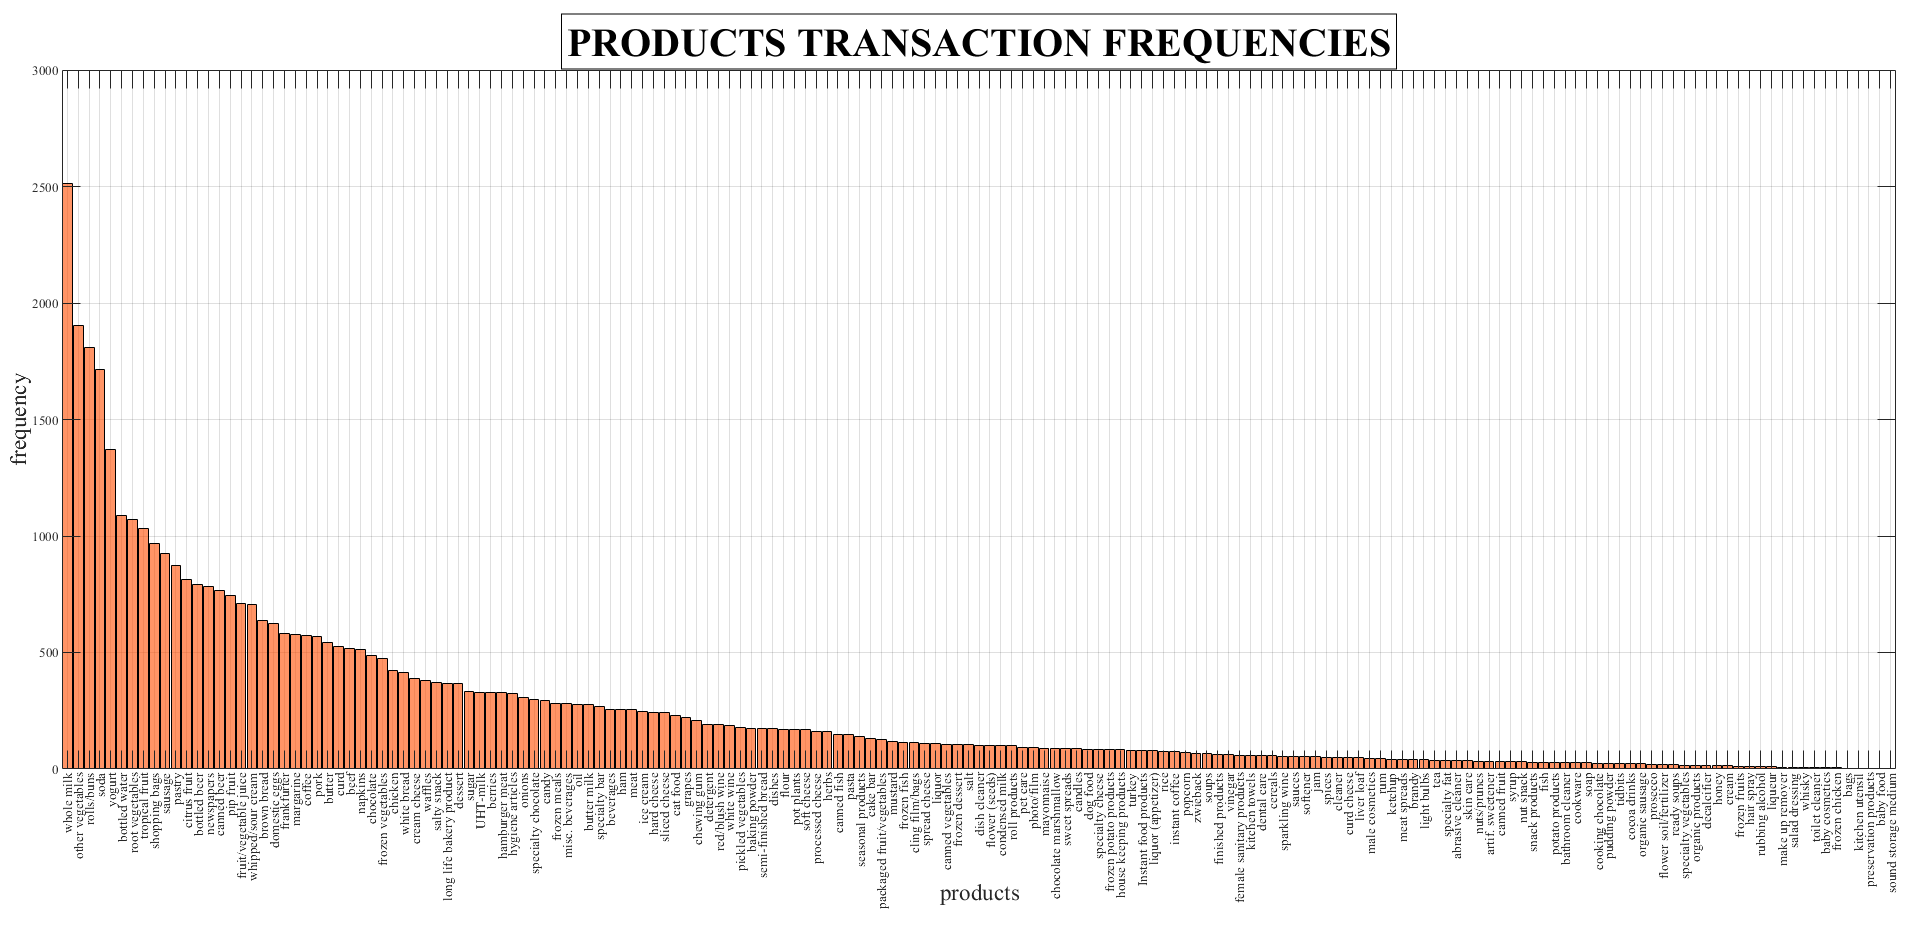
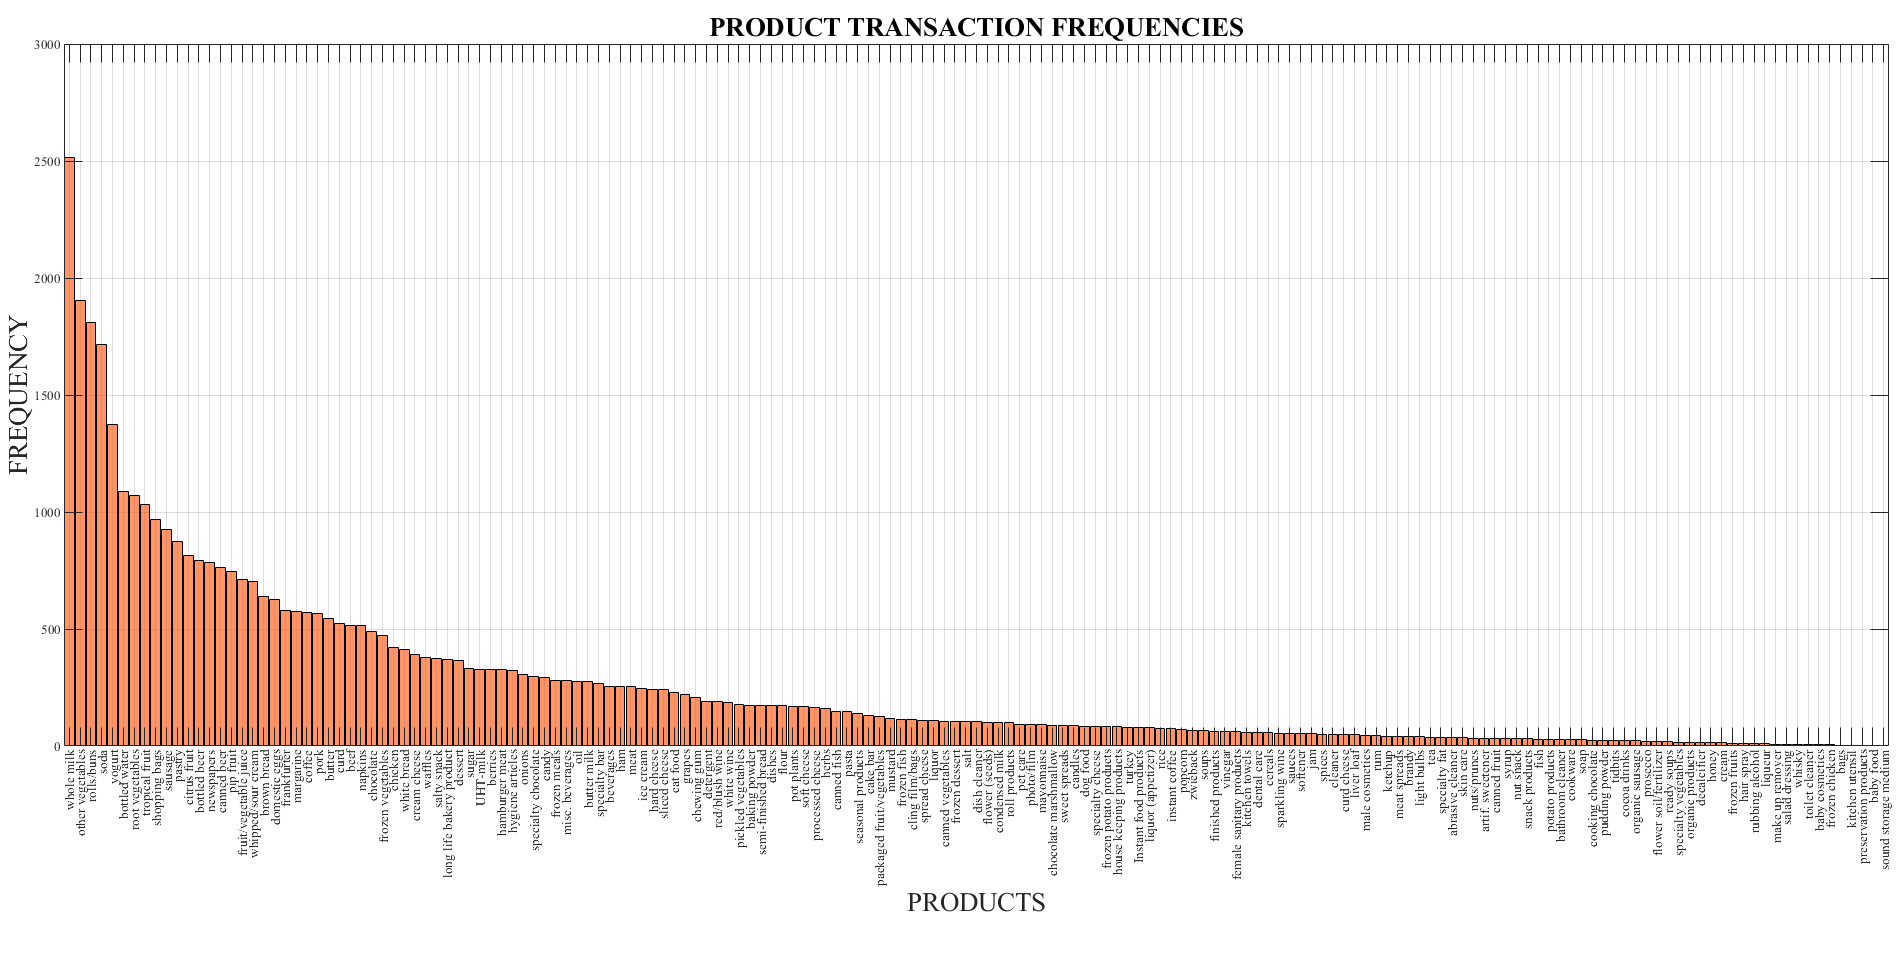
Adding association rules

Changed region(s): [[0.0, 0.0, 0.9926, 0.9605]]

diff --git a/Assignment4/associationRules.m b/Assignment4/associationRules.m
@@ -59,17 +59,24 @@ end
 function generateAssociation(fi, sup, minconf)
 
 confidenceList = {};
+pruneList = [];
 for i=size(fi,2)-1:-1:1
     tmpfi = fi(i);
     tmpfi = tmpfi{1};
     supersetSize = size(tmpfi,2);
     for k =1:size(tmpfi,1)
         row = tmpfi(k,:);
+        pruneList = [];
         for j=supersetSize-1:-1:1
-            subsets = nchoosek(row,j);
+            subsets = sortrows(nchoosek(row,j));
+            if  isempty(pruneList) isSubset = []; else isSubset = ismember(subsets(:,j), pruneList(size(pruneList,2)-j)); end
+            %out=subsets;
+            subsets(any(isSubset==1,2),:) = [];
             for x =1:size(subsets,1)
-                subset = subsets(x);
-                X_S = setdiff(row,subset);
+                %subset = subsets(x);
+                %subset
+                %X_S = setdiff(row,subset);
+                X_S = subsets(x,:);
                 S = row;
                 fi_s = fi{size(S,2)};
                 s_idx = find(ismember(fi_s, sort(S), 'rows'));
@@ -78,32 +85,39 @@ for i=size(fi,2)-1:-1:1
                 fi_X_S = fi{size(X_S,2)};
                 X_S_idx = find(ismember(fi_X_S, sort(X_S), 'rows'));
                 support_X_S = sup{size(X_S,2)}(X_S_idx);
-                confidence = support_S/support_X_S;
+                confidence = round(support_S/support_X_S,2);
                 if confidence >= minconf
-                    confidenceList = [confidenceList;[{X_S}, {subset}, {confidence}]];
+                    confidenceList = [confidenceList;[{X_S}, {size(X_S,2)} {setdiff(row,X_S)}, {confidence}]];
+                else
+                    d = setdiff(row,subsets(x,:));
+                    d(end+1:6)=0;
+                    pruneList = [pruneList; sortrows(d) ];
                 end
             end
         end
     end
 end
-    show_top_30(confidenceList, dataset)
+show_top_30(confidenceList, dataset)
+
 end
 
 function show_top_30(confidenceList, db)
-fid = fopen('myDataFile.csv');
-a = textscan(fid,'%s',1);
-fclose(fid);
-header = split(a{1},',');
-sortedRes = sortrows(confidenceList,3,'descend')
-toDisp =sortedRes(1:30,:);
-for i=1:size(toDisp,1)
-    c1 = toDisp(i,1);
-    c2 = toDisp(i,2);
-    c3 = toDisp(i,3);
-    a = num2str(reshape(c1{1}', 1, []));
-    b = num2str(reshape(c2{1}', 1, []));
-    ax = c3{1};
-    fprintf("%s => %s Confidence = %f \n", a, b, ""+ax)
-end
+    fid = fopen('myDataFile.csv');
+    a = textscan(fid,'%s',1);
+    fclose(fid);
+    header = split(a{1},',');
+    sortedRes = sortrows(confidenceList,4,'descend');
+    toDisp =sortedRes(1:30,:);
+    for i=1:size(toDisp,1)
+        c1 = toDisp(i,1);
+        c1 = arrayfun(@(x) header(x),c1{1});
+        c2 = toDisp(i,2);
+        c2 = arrayfun(@(x) header(x),c2{1});
+        c3 = toDisp(i,4);
+        a = strjoin(c1);
+        b = strjoin(c2);
+        ax = c3{1};
+        fprintf("%s => %s Confidence = %f \n", a, b, ""+ax)
+    end
 end
 

diff --git a/Assignment4/plotHistogram.m b/Assignment4/plotHistogram.m
@@ -1,10 +1,12 @@
 function r = plotHistogram(data)
     figure('units','normalized','outerposition',[0 0 1 1],'NumberTitle', 'off', 'Name', "PRODUCTS FREQUENCY")
-    h = histogram(categorical([data{:}]'),'Orientation', 'vertical')
+    h = histogram(categorical([data{:}]'),'Orientation', 'vertical','facecolor', [1 0.301960784313725 0])
     xtickangle(90)
-    xlabel("products")
-    ylabel("frequency")
+    xlabel(['\fontsize{16}PRODUCTS'])
+    ylabel(['\fontsize{16}FREQUENCY'])
     set(gca,'FontSize',8);
     set(gca, 'FontName', 'Times New Roman');
     h.DisplayOrder = 'descend';
+    title(['\fontsize{16}PRODUCT TRANSACTION FREQUENCIES'])
+    grid on;
 end
